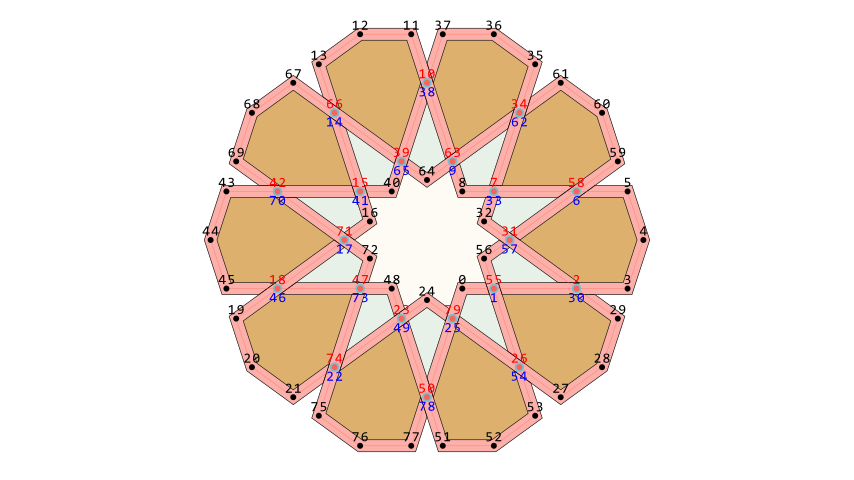
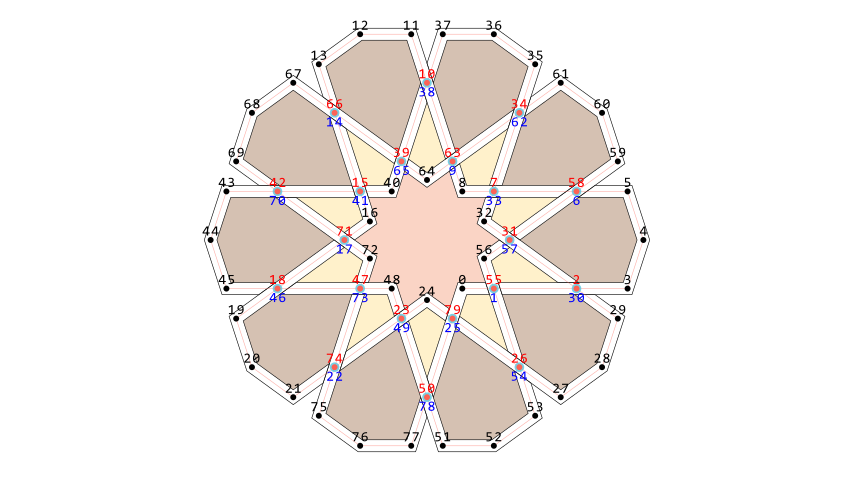
Add Images

diff --git a/test_lace.py b/test_lace.py
@@ -5,21 +5,21 @@ from manim import *
 class TestLaceScene0(Scene):
     def construct(self):
         star = StarRosette(10, 2).scale(1)
-        lace = Lace(star, offset=0.1, stroke_color=BLACK, stroke_width=1, fill_color=RED, fill_opacity=0.5)
+        lace = Lace(star, offset=0.1, stroke_color=BLACK, stroke_width=1, fill_color=WHITE, fill_opacity=0.5)
         self.add(lace)
 
 
 class TestLaceScene1(Scene):
     def construct(self):
         star = StarRosette(10, 3).scale(1)
-        lace = Lace(star, offset=0.1, stroke_color=BLACK, stroke_width=1, fill_color=RED, fill_opacity=0.5)
+        lace = Lace(star, offset=0.1, stroke_color=BLACK, stroke_width=1, fill_color=WHITE, fill_opacity=0.5)
         self.add(lace)
 
 
 class TestLaceScene2(Scene):
     def construct(self):
         grid = NumberPlane().background_lines
-        lace = Lace(grid, offset=0.1, stroke_color=BLACK, stroke_width=1, fill_color=RED, fill_opacity=0.5)
+        lace = Lace(grid, offset=0.1, stroke_color=BLACK, stroke_width=1, fill_color=WHITE, fill_opacity=0.5)
         self.add(lace)
 
 
@@ -39,9 +39,9 @@ class TestLaceScene3(Scene):
 if __name__ == "__main__":
     with tempconfig({"quality": "low_quality", "preview": False, "verbosity": "WARNING", "background_color": WHITE}):
         TestLaceScene0().render()
-    with tempconfig({"quality": "low_quality", "preview": False, "verbosity": "WARNING", "background_color": WHITE}):
-        TestLaceScene1().render()
-    with tempconfig({"quality": "low_quality", "preview": False, "verbosity": "WARNING", "background_color": WHITE}):
-        TestLaceScene2().render()
-    with tempconfig({"quality": "low_quality", "preview": False, "verbosity": "WARNING", "background_color": WHITE}):
-        TestLaceScene3().render()
+    # with tempconfig({"quality": "low_quality", "preview": False, "verbosity": "WARNING", "background_color": WHITE}):
+    #     TestLaceScene1().render()
+    # with tempconfig({"quality": "low_quality", "preview": False, "verbosity": "WARNING", "background_color": WHITE}):
+    #     TestLaceScene2().render()
+    # with tempconfig({"quality": "low_quality", "preview": False, "verbosity": "WARNING", "background_color": WHITE}):
+    #     TestLaceScene3().render()
